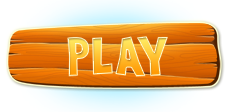
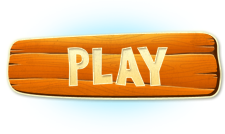
#422: changed background

diff --git a/Cowboy Duel/TestAppDelegate.m b/Cowboy Duel/TestAppDelegate.m
@@ -85,9 +85,8 @@ NSString  *const ID_CRIT_SECRET   = @"w30r26yvspyi1xtgrdcqgexpzsazqlkl";
     CGRect frame = [[UIScreen mainScreen]bounds];
     window = [[UIWindow alloc]initWithFrame:frame];
     
-    UIImageView *background = [[UIImageView alloc] initWithImage: [UIImage imageNamed:@"dv_img_eath_new.png"]];
+    UIImageView *background = [[UIImageView alloc] initWithImage: [UIImage imageNamed:@"back.png"]];
     frame = background.frame;
-    frame.origin = CGPointMake(-150, -70);
     background.frame = frame;
     [window addSubview:background];
     
